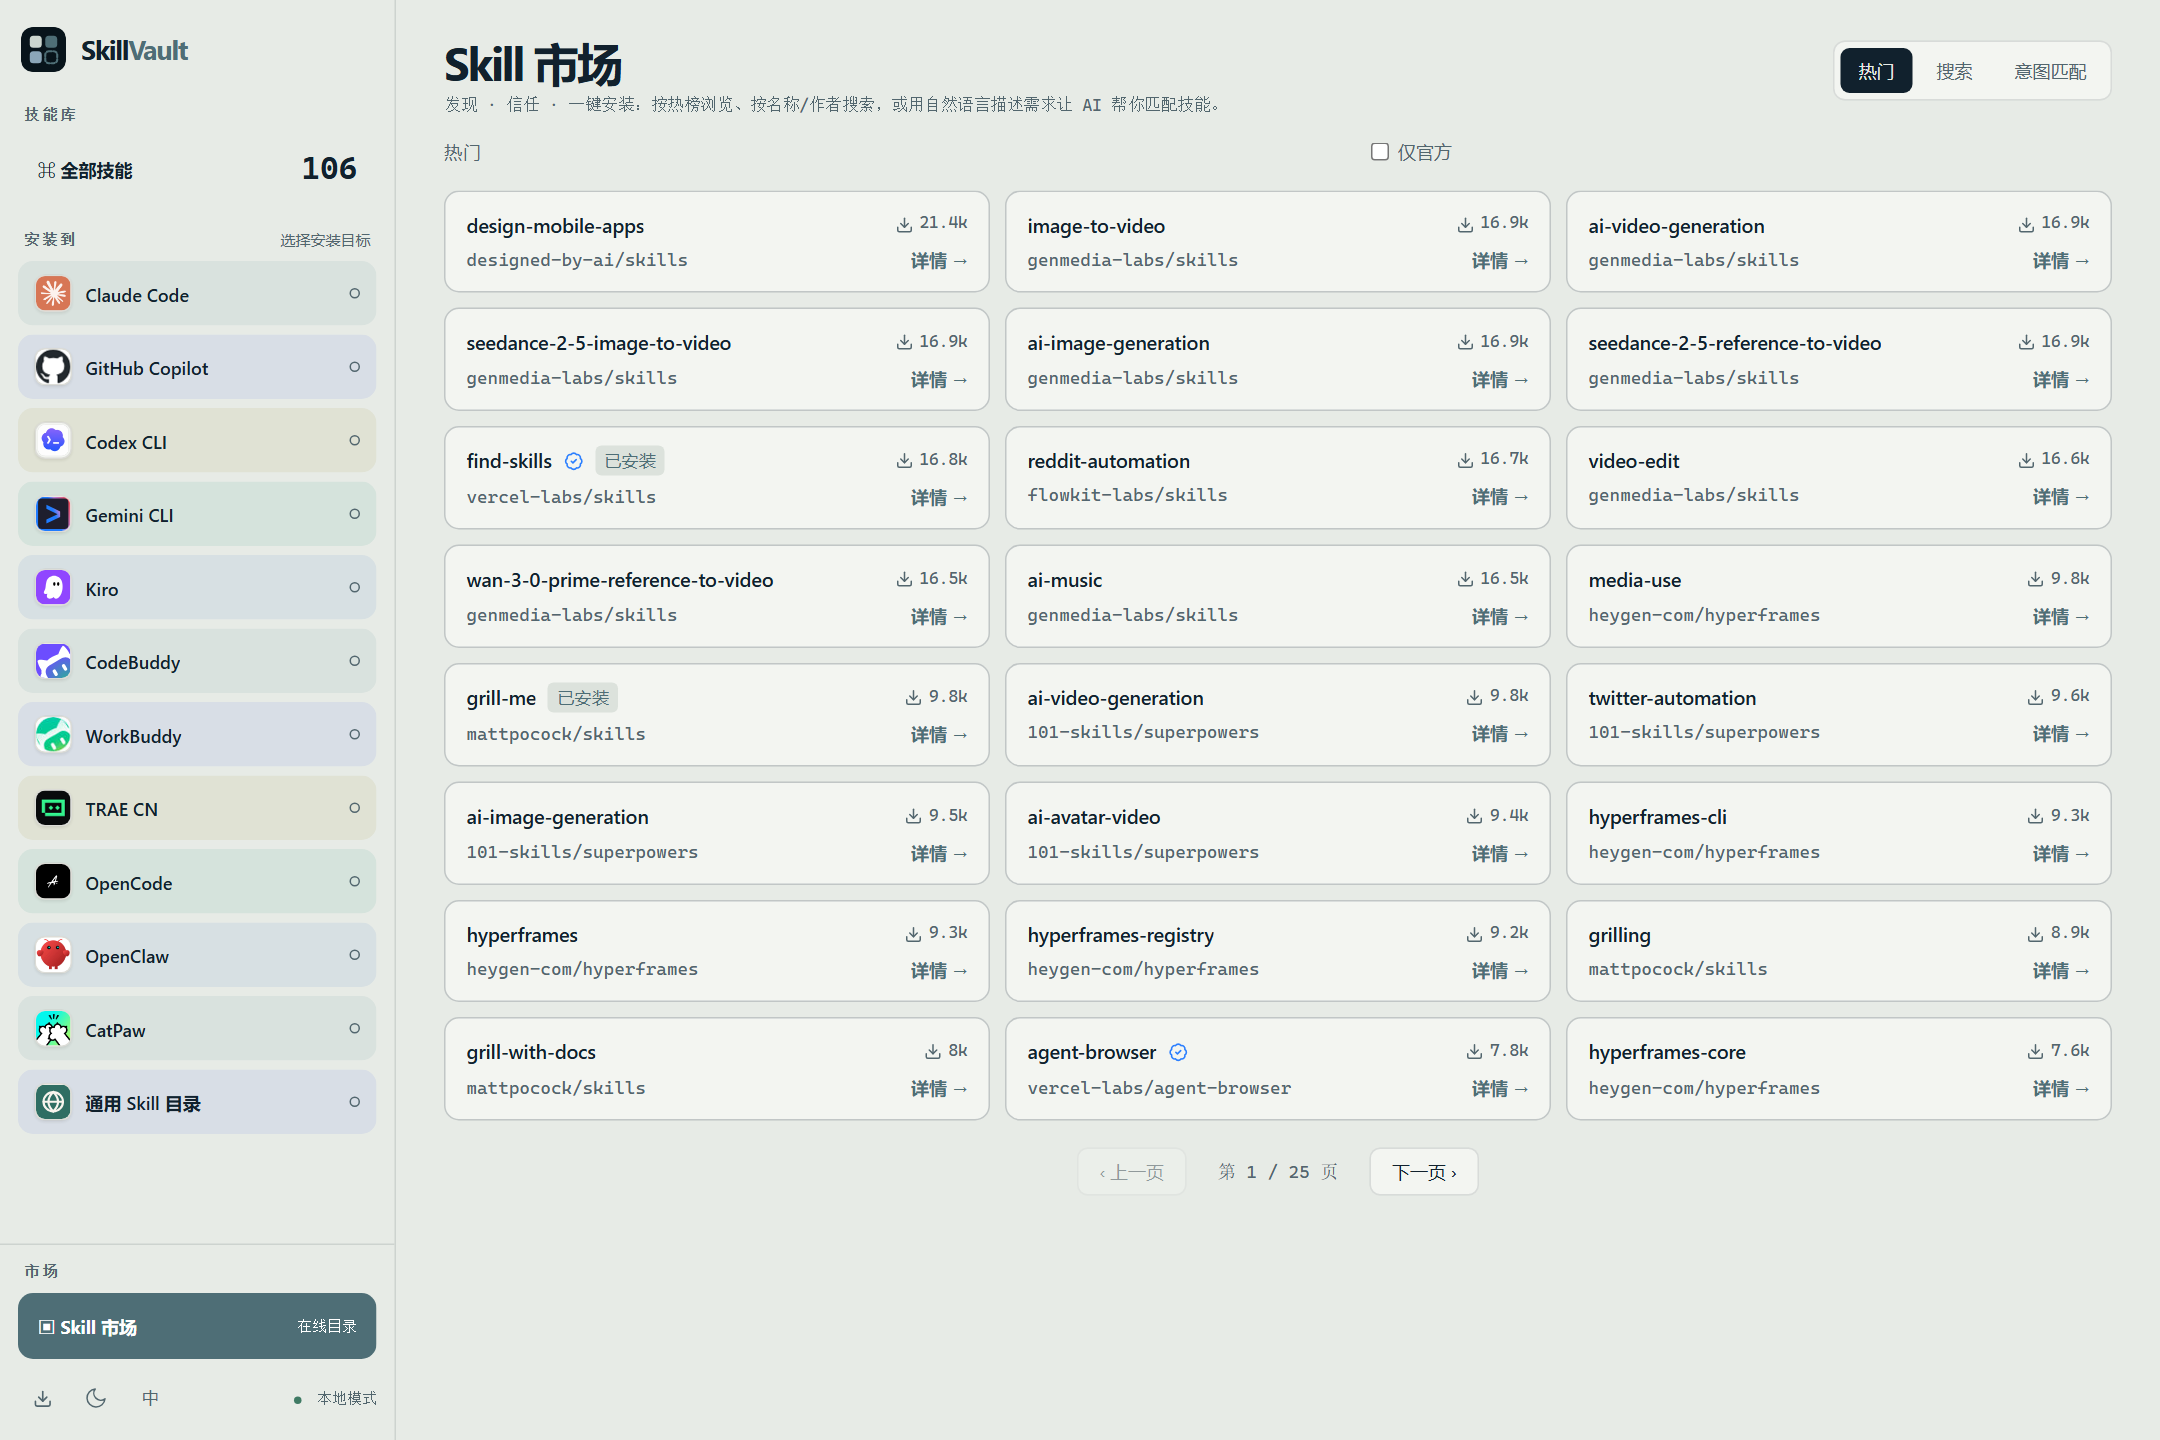
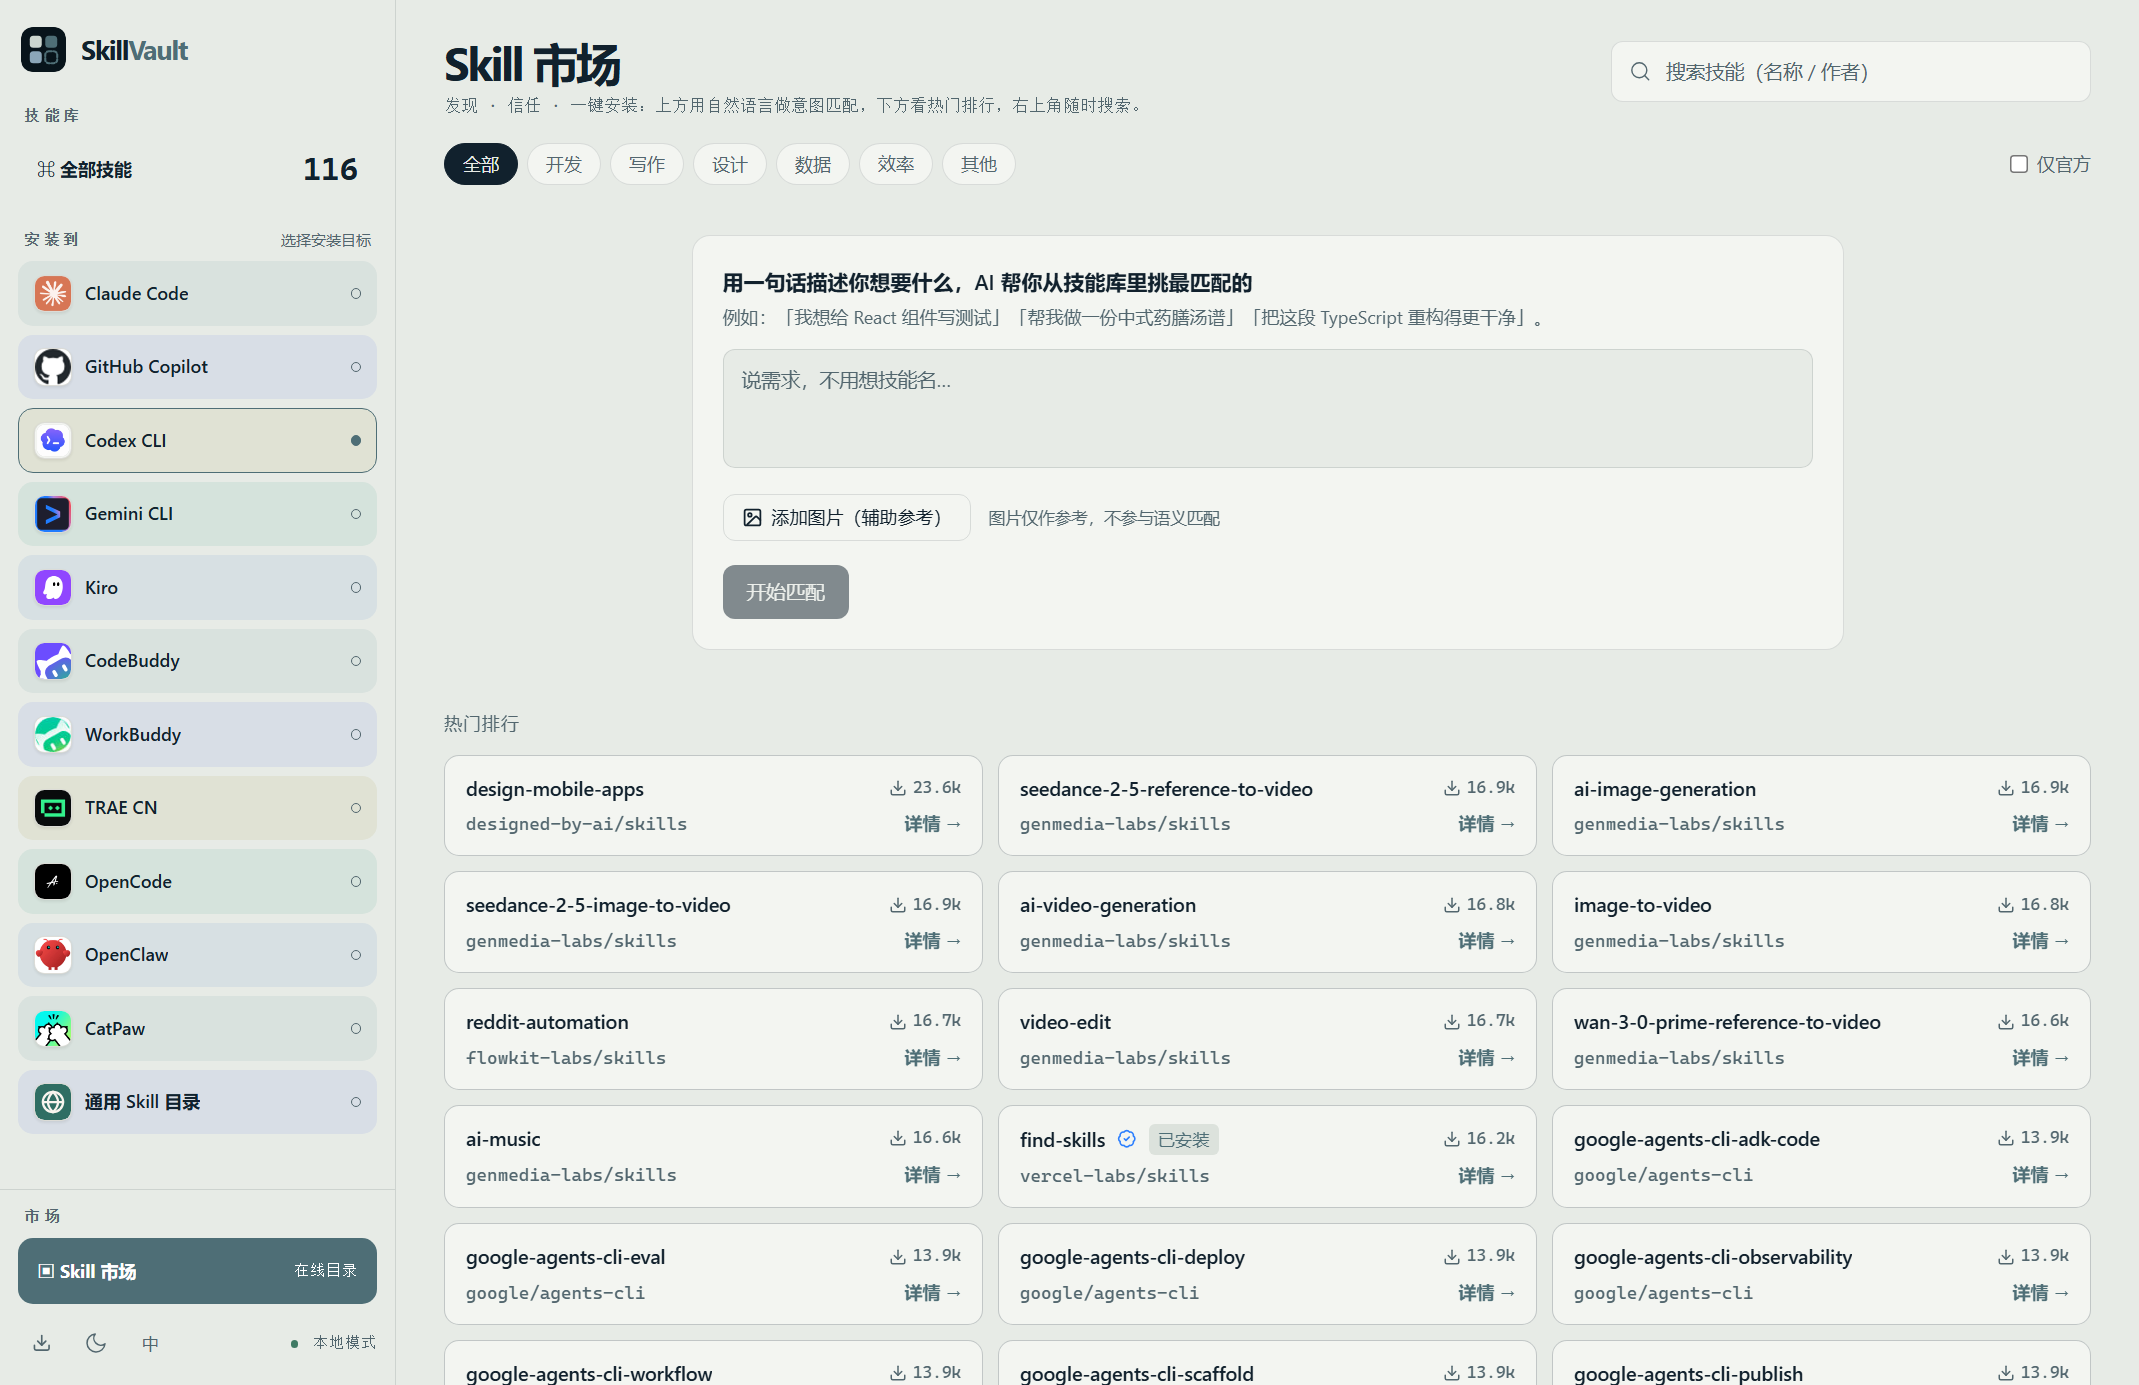
docs(images): 重拍三张界面截图并修复截图过程中暴露的两个缺陷
- 截图：启动最新构建实测后重拍 skillbox-market / skillvault-intent / skillbox-overview，替换旧版三 Tab 布局的过时截图；README 补图注与新交互说明
- fix(discover): 分类 Tab 初始值为 "all" 而筛选项为「全部」，条件恒成立导致热门排行被清空 —— 改用 CATEGORIES[0]
- fix(csp): connect-src/script-src 未放行 huggingface.co 与 cdn.jsdelivr.net，本地语义模型（tokenizer/onnx wasm）无法下载、意图匹配始终降级为关键词匹配；补放行 asm-unsafe-eval 与模型下载域

diff --git a/apps/desktop/src/renderer/index.html b/apps/desktop/src/renderer/index.html
@@ -5,7 +5,7 @@
     <meta name="viewport" content="width=device-width, initial-scale=1.0" />
     <meta
       http-equiv="Content-Security-Policy"
-      content="default-src 'self'; script-src 'self'; style-src 'self' 'unsafe-inline'; font-src 'self'; img-src 'self' data: https:; connect-src 'self' https://skills.sh https://www.skills.sh https://raw.githubusercontent.com https://api.github.com"
+      content="default-src 'self'; script-src 'self' 'wasm-unsafe-eval'; style-src 'self' 'unsafe-inline'; font-src 'self'; img-src 'self' data: https:; connect-src 'self' https://skills.sh https://www.skills.sh https://raw.githubusercontent.com https://api.github.com https://huggingface.co https://*.huggingface.co https://*.hf.co https://cdn.jsdelivr.net"
     />
     <title>SkillVault</title>
   </head>

diff --git a/apps/desktop/src/renderer/routes/discover.tsx b/apps/desktop/src/renderer/routes/discover.tsx
@@ -1329,7 +1329,8 @@ export function Discover() {
   // 搜索视图开关：true = 应用内全屏搜索结果视图（方案 A，installs 倒序）
   const [showSearchView, setShowSearchView] = useState(false)
   // 分类 Tab 筛选：与官方筛选 / 侧边 install targets / 搜索 完全解耦（独立状态）
-  const [activeCategory, setActiveCategory] = useState("all")
+  // 取值与 CATEGORIES[0] 保持一致，否则过滤条件永远成立、列表会被清空
+  const [activeCategory, setActiveCategory] = useState(CATEGORIES[0])
 
   // The skills.sh API honors `limit` but ignores offset/page/cursor, so a
   // bigger local result set means re-requesting from the top with a larger
